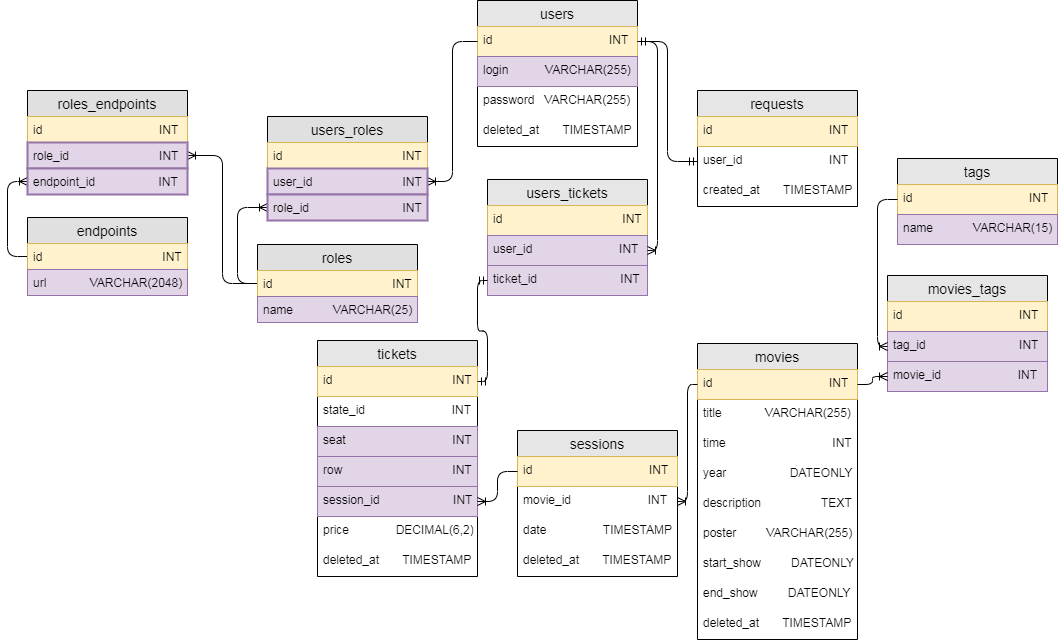
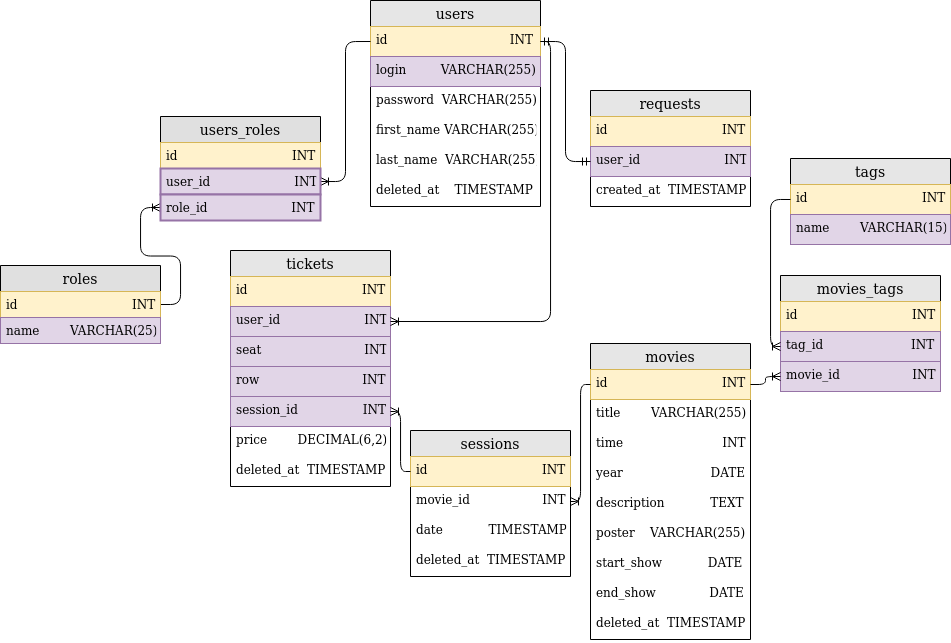
Change db

diff --git a/repositories/movieRepository.js b/repositories/movieRepository.js
@@ -27,14 +27,14 @@ module.exports = class movieRepository {
 	}
 
 	async findTopMonth(month) {
-		return await db.query(`SELECT id,title,year,time,description FROM movies WHERE id IN(SELECT m.id FROM movies AS m, users_tickets AS ut, tickets AS t, sessions AS s
-			WHERE m.id=s.movie_id AND s.id=t.session_id AND t.id=ut.ticket_id
-				AND ${month}=MONTH(s.date) GROUP BY m.id HAVING MAX(COUNT(m.id)));`, { type: QueryType.SELECT });
+		return await db.query(`SELECT id,title,year,time,description FROM movies WHERE id IN
+			(SELECT s.movie_id FROM tickets AS t, sessions AS s WHERE t.session_id=s.id
+				AND ${month}=MONTH(s.date) GROUP BY s.movie_id 
+					HAVING MAX(COUNT(s.movie_id)));`, { type: QueryType.SELECT });
 	}
 
 	async findTop() {
-		return await db.query(`SELECT SELECT id,title,year,time,description FROM movies WHERE id IN(SELECT m.id FROM
-			movies AS m, users_tickets AS ut WHERE m.id=ut.movie_id GROUP BY m.id
-				HAVING COUNT(m.id)>=((SELECT COUNT(id) FROM users_tickets)/(SELECT COUNT(id) FROM movies)));`, { type: QueryType.SELECT });
+		return await db.query(`SELECT id,title,year,time,description FROM movies WHERE id IN(SELECT s.movie_id FROM 	tickets AS t, sessions AS s WHERE t.session_id=s.id GROUP BY s.movie_id
+				HAVING COUNT(t.id)>=((SELECT COUNT(id) FROM tickets)/(SELECT COUNT(id) FROM movies)));`, { type: QueryType.SELECT });
 	}
 }

diff --git a/database/models/Ticket.js b/database/models/Ticket.js
@@ -39,7 +39,13 @@ const Ticket = sequelize.define('tickets', {
     sessionId: {
         type: DataType.INTEGER,
         allowNull: false,
-        unique: true
+        unique: true,
+        field: 'session_id',
+    },
+    userId: {
+        type: DataType.INTEGER,
+        allowNull: false,
+        field: 'user_id',
     }
 }, {
     sequelize,
@@ -53,7 +59,7 @@ const Ticket = sequelize.define('tickets', {
     initialAutoIncrement: '1',
 });
 Ticket.associate = (model) => {
-    Ticket.belongsToMany(model.users, { through: model.usersTickets, foreignKey: 'ticketId' });
+    Ticket.belongsTo(model.users, { foreignKey: 'userId', onDelete: 'RESTRICT' });
 
 }
 

diff --git a/database/models/User.js b/database/models/User.js
@@ -24,11 +24,11 @@ const User = sequelize.define('users', {
 	},
 	lastName: {
 		type: DataType.STRING,
-		field: 'lname',
+		field: 'last_name',
 	},
 	firstName: {
 		type: DataType.STRING,
-		field: 'fname',
+		field: 'first_name',
 	}
 	//timestamps: false
 	//deletedAt: true
@@ -47,7 +47,6 @@ const User = sequelize.define('users', {
 User.associate = (model) => {
 	User.hasOne(model.requests, { foreignKey: 'userId', onDelete: 'RESTRICT' });
 	User.belongsToMany(model.roles, { through: model.usersRoles, foreignKey: 'userId' });
-	User.belongsToMany(model.tickets, { through: model.usersTickets, foreignKey: 'userId' });
 }
 
 module.exports = User;

diff --git a/database/models/UserRole.js b/database/models/UserRole.js
@@ -10,11 +10,13 @@ const UserRole = sequelize.define("usersRoles", {
     },
     userId: {
         type: DataType.INTEGER,
-        unique: true
+        unique: true,
+        field: 'user_id',
     },
     roleId: {
         type: DataType.INTEGER,
-        unique: true
+        unique: true,
+        field: 'role_id',
     }
 }, {
     sequelize,

diff --git a/database/database.js b/database/database.js
@@ -11,7 +11,7 @@ module.exports.authenticate = async () => {
 
 module.exports.sync = async () => {
 	try {
-		await db.sync(/*{ alter: true }*/);
+		await db.sync({ alter: true });
 		console.log("All models were synchronized successfully.");
 	} catch (error) {
 		console.log('Unable to sync with db: ', error);

diff --git a/database/models/index.js b/database/models/index.js
@@ -8,7 +8,6 @@ db.roles = require('./Role');
 db.sessions = require('./Session');
 db.tickets = require('./Ticket');
 db.moviesTags = require('./MovieTag');
-db.usersTickets = require('./UserTicket');
 db.usersRoles = require('./UserRole');
 
 
